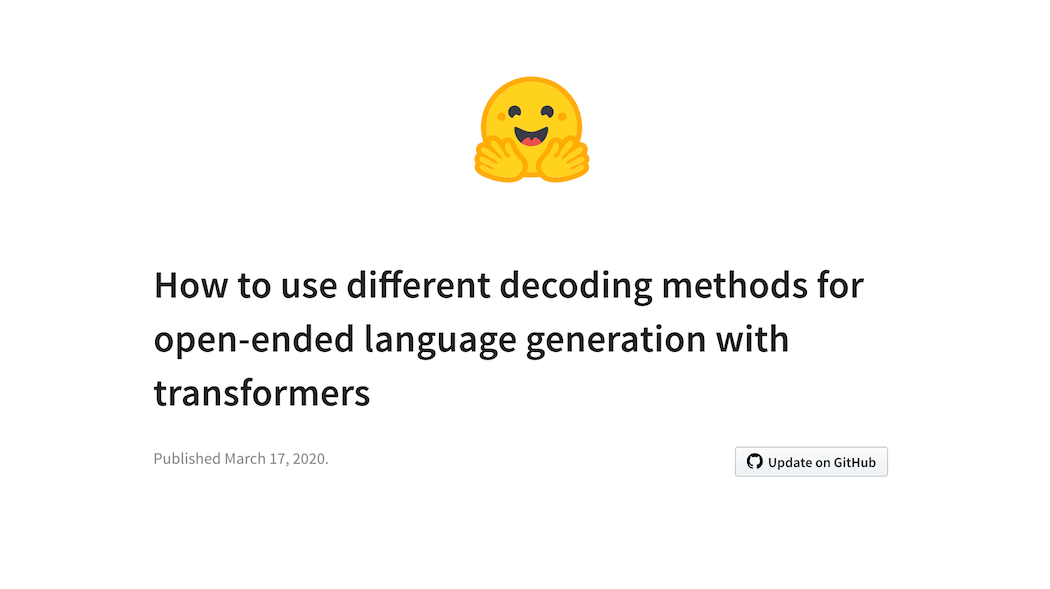
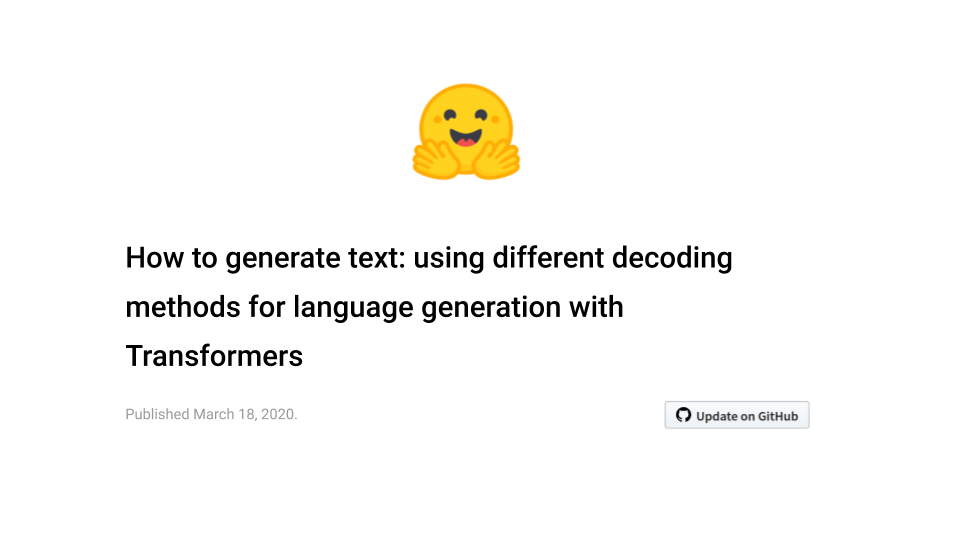
Add last changes to blog title (#13)
* change title

* change thumbnail

* improve headline

diff --git a/how-to-generate.md b/how-to-generate.md
@@ -3,7 +3,7 @@ title: How to use different decoding methods for open-ended language generation 
 thumbnail: https://huggingface.co/blog/assets/02_how-to-generate/thumbnail.png
 ---
 
-# How to use different decoding methods for open-ended language generation with transformers
+# How to generate text: using different decoding methods for language generation with Transformers
 
 <div class="blog-metadata">
     <small>Published March 17, 2020.</small>
